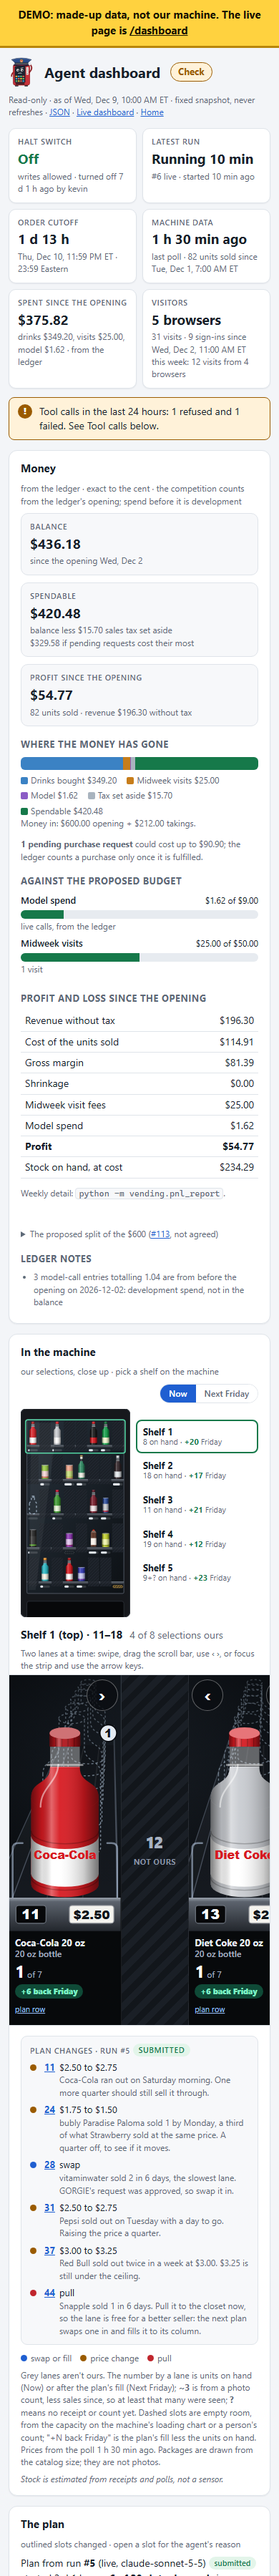
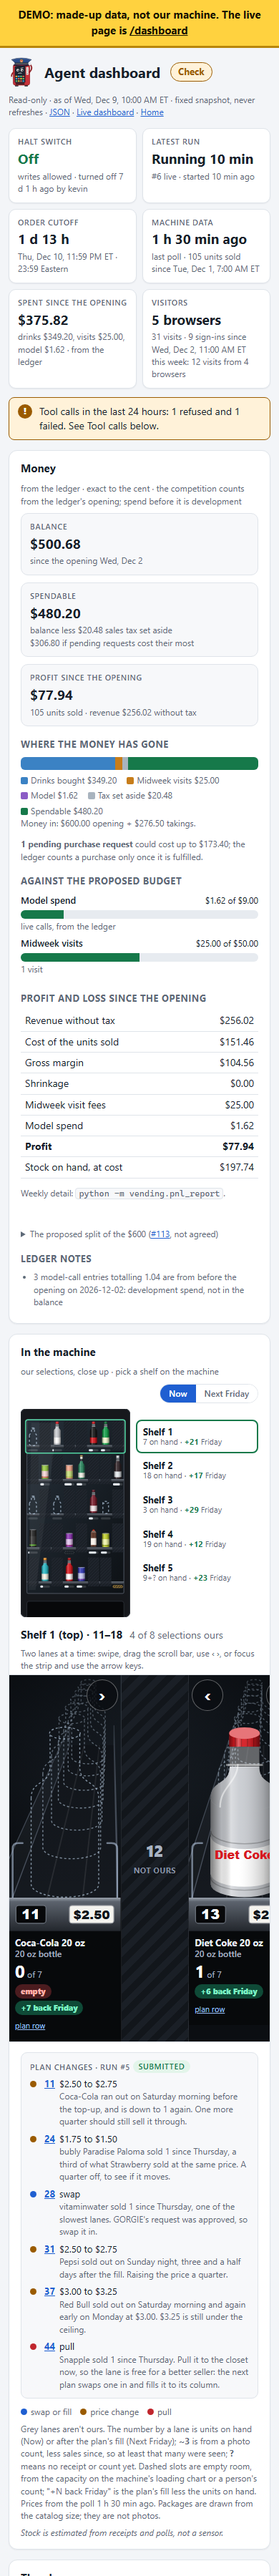
Demo: every run's reasons agree with the made-up sales and the polls before it
Monday's plan no longer says Pepsi sold out on Tuesday, and "Coca-Cola ran out on Saturday
morning" is now true: Coca-Cola, Red Bull, Pepsi and Mountain Dew sell faster, so Coca-Cola
and Red Bull run out before Saturday's top-up and again by Monday, and Pepsi runs out on
Sunday night. The visit, Monday's run and the "now" step say only what the polls before them
showed ("sold 1 since Thursday", not "in 6 days"). Friday's order now also buys Red Bull,
Diet Coke, bubly Strawberry and the protein shake, which the closet can't fill to their
columns. Tests check each claim against the simulation and that the closet plus the order
fills every lane.

diff --git a/vending/demo/make.py b/vending/demo/make.py
@@ -38,7 +38,7 @@ AS_OF = datetime(2026, 12, 9, 15, 0, tzinfo=UTC)
 # Opening capital: Wed 2 Dec, 10:00 Eastern. The first fill is loaded the day the competition starts.
 OPENED = datetime(2026, 12, 2, 15, 0, tzinfo=UTC)
 LOAD = datetime(2026, 12, 3, 15, 0, tzinfo=UTC)
-# A midweek visit that tops up the three fastest sellers.
+# A midweek visit (Saturday noon) that tops up the three fastest sellers.
 VISIT = datetime(2026, 12, 5, 17, 0, tzinfo=UTC)
 LAST_POLL = datetime(2026, 12, 9, 13, 30, tzinfo=UTC)
 
@@ -72,7 +72,7 @@ PRODUCTS: dict[str, tuple[str, str, str | None, str, int, str]] = {
 
 # Day one: (slot, sku, fill to, tag price, units a day, the agent's reason). `slot` is one of SELECTIONS.
 DAY_ONE = (
-    ("11", "COCA-ORIGINAL-20BOT", 7, "2.50", 1.4, "Coca-Cola is the safest seller in the fall figures. Fill the lane."),
+    ("11", "COCA-ORIGINAL-20BOT", 7, "2.50", 3.7, "Coca-Cola is the safest seller in the fall figures. Fill the lane."),
     ("13", "COCA-DIET-20BOT", 7, "2.50", 1.1, "Diet Coke followed Coca-Cola in the fall figures."),
     ("16", "COCA-ZERO_SUG-20BOT", 7, "2.50", 0.8, "Coke Zero sold steadily in the fall."),
     ("17", "SPRITE-ORIGINAL-20BOT", 7, "2.50", 0.7, "A lemon-lime to sit beside the colas."),
@@ -80,10 +80,10 @@ DAY_ONE = (
     ("24", "BUBLY-PARADISE-12CAN", 8, "1.75", 0.5, "A second bubly flavour, to see which one wins."),
     ("25", "TOPOCHICO-ORIGINAL-16BOT", 7, "2.75", 0.6, "Glass sparkling water, priced up for the bottle."),
     ("28", "VITAMINWATER-DARK-20BOT", 7, "2.50", 0.4, "A non-fizzy choice."),
-    ("31", "PEPSI-ORIGINAL-20BOT", 7, "2.50", 1.6, "Pepsi sold well in the fall figures."),
-    ("33", "MOUNTAIN-ORIGINAL-20BOT", 7, "2.50", 1.2, "Mountain Dew is the strongest of the greens."),
+    ("31", "PEPSI-ORIGINAL-20BOT", 7, "2.50", 2.0, "Pepsi sold well in the fall figures."),
+    ("33", "MOUNTAIN-ORIGINAL-20BOT", 7, "2.50", 1.8, "Mountain Dew is the strongest of the greens."),
     ("36", "DRPEPPER-ORIGINAL-20BOT", 7, "2.50", 0.7, "Dr Pepper, for people who want neither cola."),
-    ("37", "REDBULL-ORIGINAL-8_4CAN", 11, "3.00", 1.5, "The energy drink with the best margin, and the small can fits 11."),
+    ("37", "REDBULL-ORIGINAL-8_4CAN", 11, "3.00", 5.9, "The energy drink with the best margin, and the small can fits 11."),
     ("41", "MONSTER-ORIGINAL-16CAN", 8, "3.25", 1.3, "A second energy drink, in the bigger can."),
     ("44", "SNAPPLE-ORIGINAL-16BOT", 7, "2.50", 0.3, "Tea, to cover a different taste."),
     ("46", "PREMIER-CHOCOLAT-11CAR", 9, "4.00", 0.5, "A protein shake for the gym crowd, at a price that pays for the carton."),
@@ -99,14 +99,27 @@ NOT_BOUGHT = {"55", "58"}
 TOPPED_UP = ("11", "33", "37")
 # Where the agent's next plan differs from the one before it: slot -> (sku, fill to, price, reason).
 NEXT_CHANGES = {
-    "11": (None, None, "2.75", "Coca-Cola ran out on Saturday morning. One more quarter should still sell it through."),
-    "31": (None, None, "2.75", "Pepsi sold out on Tuesday with a day to go. Raising the price a quarter."),
-    "37": (None, None, "3.25", "Red Bull sold out twice in a week at $3.00. $3.25 is still under the ceiling."),
-    "24": (None, None, "1.50", "bubly Paradise Paloma sold 1 by Monday, a third of what Strawberry sold at the same "
+    "11": (None, None, "2.75", "Coca-Cola ran out on Saturday morning before the top-up, and is down to 1 again. "
+                               "One more quarter should still sell it through."),
+    "31": (None, None, "2.75", "Pepsi sold out on Sunday night, three and a half days after the fill. "
+                               "Raising the price a quarter."),
+    "37": (None, None, "3.25", "Red Bull sold out on Saturday morning and again early on Monday at $3.00. "
+                               "$3.25 is still under the ceiling."),
+    "24": (None, None, "1.50", "bubly Paradise Paloma sold 1 since Thursday, a third of what Strawberry sold at the same "
                                "price. A quarter off, to see if it moves."),
-    "28": ("GORGIE-ORIGINAL-20BOT", None, None, "vitaminwater sold 2 in 6 days, the slowest lane. GORGIE's request was approved, so swap it in."),
-    "44": (None, 0, None, "Snapple sold 1 in 6 days. Pull it to the closet now, so the lane is free for a better "
+    "28": ("GORGIE-ORIGINAL-20BOT", None, None, "vitaminwater sold 1 since Thursday, one of the slowest lanes. GORGIE's request "
+                                                "was approved, so swap it in."),
+    "44": (None, 0, None, "Snapple sold 1 since Thursday. Pull it to the closet now, so the lane is free for a better "
                           "seller: the next plan swaps one in and fills it to its column."),
+}
+# Next Friday's order (pending): slot -> (sku, fill to, price, a new product for the slot). The swap, the two
+# lanes that found no seller, and the lanes the closet can't fill to their column by Friday.
+FRIDAY_ORDER = {
+    "31": ("PEPSI-ORIGINAL-20BOT", 7, "2.75", False), "41": ("MONSTER-ORIGINAL-16CAN", 8, "3.25", False),
+    "28": ("GORGIE-ORIGINAL-20BOT", 7, "2.50", True), "55": ("TOPOCHICO-ORIGINAL-16BOT", 7, "2.75", True),
+    "58": ("MOUNTAIN-BAJA_BLA-20BOT", 7, "2.50", True), "37": ("REDBULL-ORIGINAL-8_4CAN", 11, "3.25", False),
+    "13": ("COCA-DIET-20BOT", 7, "2.50", False), "22": ("BUBLY-STRAWBER-12CAN", 8, "1.75", False),
+    "46": ("PREMIER-CHOCOLAT-11CAR", 9, "4.00", False),
 }
 # Reworded reasons on slots the plan leaves as they were: not a change.
 STILL = "Unchanged from last week: the numbers don't argue for a move."
@@ -274,14 +287,10 @@ def seed_purchases(conn, sim: dict) -> dict:
         " %s, %s, 2500)",
         (_utc(4, 21), Jsonb({"off_cycle": True, "lines": visit_body}), paid_visit, VISIT))
 
-    # Next Friday: what the 7 Dec plan asks to buy. Pending, so it shows as committed in Money. Lanes the
-    # closet can refill (Coca-Cola, Mountain Dew, Red Bull) aren't bought again.
+    # Next Friday: what the 7 Dec plan asks to buy. Pending, so it shows as committed in Money. A lane the
+    # closet can fill to its column by Friday (Coca-Cola, Mountain Dew and most others) isn't bought again.
     pending = []
-    for slot, (sku, fill, price, retry) in {
-        "31": ("PEPSI-ORIGINAL-20BOT", 7, "2.75", False), "41": ("MONSTER-ORIGINAL-16CAN", 8, "3.25", False),
-        "28": ("GORGIE-ORIGINAL-20BOT", 7, "2.50", True), "55": ("TOPOCHICO-ORIGINAL-16BOT", 7, "2.75", True),
-        "58": ("MOUNTAIN-BAJA_BLA-20BOT", 7, "2.50", True),
-    }.items():
+    for slot, (sku, fill, price, retry) in FRIDAY_ORDER.items():
         line = {"slot": slot, "source": "purchase",
                 "primary": _ask(sku, 1, sale=price, store="Amazon", change=retry)}
         if retry:
@@ -349,19 +358,21 @@ def seed_runs(conn) -> dict[str, int]:
         detail="The model call timed out after 120 s")
     midweek = plan_one()
     midweek["visit"] = "off_cycle"
-    midweek["reason"] = "Three lanes have emptied. A visit costs $25 and the lost sales cost more."
+    midweek["reason"] = ("Coca-Cola and Red Bull are down to 1 each, with the weekend ahead. A visit costs $25 "
+                         "and the lost sales cost more; Mountain Dew is topped up on the same trip.")
     run("visit", "live", _utc(5, 14), _utc(5, 14, 9), "submitted", plan=midweek, cost_usd=Decimal("0.37"),
         request_id="pr-003",
-        update="Midweek visit: Coca-Cola, Mountain Dew and Red Bull topped up to full.",
-        notes="The visit paid for itself within two days. Watch for it in the profit.")
+        update="Midweek visit requested: Coca-Cola, Mountain Dew and Red Bull to be topped up to full.",
+        notes="Check on Monday whether the three lanes sold enough to pay for the visit.")
     run("replay", "replay", _utc(6, 12), _utc(6, 12, 2), "skipped", cost_usd=Decimal("0.00"),
         detail="Replay of the week of 23 Nov with the same rules; nothing to submit")
     run("friday", "live", _utc(7, 14), _utc(7, 14, 12), "submitted", plan=plan_next(), cost_usd=Decimal("0.58"),
         request_id="pr-002",
         update="Next Friday's order: three prices up, one down, one swap, one lane pulled for a swap to come. "
                "Selections 55 and 58 get another "
-               "try at a seller. Coca-Cola, Mountain Dew and Red Bull refill from the closet.",
-        notes="Pepsi sold out with a day to go: if it does again at $2.75, price it at $3.00. "
+               "try at a seller. Coca-Cola and Mountain Dew refill from the closet; Red Bull, Diet Coke, "
+               "bubly Strawberry and the protein shake are bought, since the closet can't fill them.",
+        notes="Pepsi sold out on Sunday: if it sells out again at $2.75, price it at $3.00. "
               "Check whether GORGIE outsells vitaminwater, and pick the product for 44.")
     run("now", "live", _utc(9, 14, 50), None, "running")
     return ids
@@ -390,24 +401,26 @@ def seed_steps(conn, ids: dict[str, int]) -> None:
             (1, _utc(7, 14, 0), "thinking", None, "Monday. Last week's plan is the baseline. I want sales per lane, "
              "what sold out, and what the ledger says I can spend.", False),
             (1, _utc(7, 14, 1), "tool_call", "get_machine_state", "{}", False),
-            (1, _utc(7, 14, 1), "tool_result", "get_machine_state", "20 lanes; 31 sold out; 11, 33, 37 topped up on Saturday", False),
+            (1, _utc(7, 14, 1), "tool_result", "get_machine_state", "20 lanes; 31 and 37 empty, 11 down to 1; 11, 33 and 37 "
+             "topped up on Saturday", False),
             (1, _utc(7, 14, 2), "tool_call", "get_account_balance", "{}", False),
             (1, _utc(7, 14, 2), "tool_result", "get_account_balance", "balance and spendable both well above the $53 floor", False),
-            (2, _utc(7, 14, 4), "thinking", None, "Pepsi, Coca-Cola and Red Bull empty before Friday. Their price is "
-             "too low for the demand, and a quarter more should still clear them.", False),
+            (2, _utc(7, 14, 4), "thinking", None, "Coca-Cola and Red Bull ran out before Saturday's top-up and are "
+             "empty or nearly again, and Pepsi ran out on Sunday. Their price is too low for the demand, and a "
+             "quarter more should still clear them.", False),
             (2, _utc(7, 14, 5), "tool_call", "get_sales_history", '{"slot": "31"}', False),
-            (2, _utc(7, 14, 5), "tool_result", "get_sales_history", "9 sold in 6 days, empty from Tuesday", False),
-            (3, _utc(7, 14, 7), "thinking", None, "vitaminwater sold 2 in 6 days. GORGIE was approved last week; "
-             "try it there. Snapple sold 1, so pull it and swap a new product in next week.", False),
+            (2, _utc(7, 14, 5), "tool_result", "get_sales_history", "7 sold by Sunday night, empty since", False),
+            (3, _utc(7, 14, 7), "thinking", None, "vitaminwater sold 1 since Thursday. GORGIE was approved in "
+             "November; try it there. Snapple sold 1, so pull it and swap a new product in next week.", False),
             (3, _utc(7, 14, 8), "tool_call", "preview_desired_state", '{"slots": 20}', False),
-            (3, _utc(7, 14, 8), "tool_result", "preview_desired_state", "most we pay $90.90, 0 refusals", False),
+            (3, _utc(7, 14, 8), "tool_result", "preview_desired_state", "most we pay $173.40, 0 refusals", False),
             (4, _utc(7, 14, 10), "tool_call", "submit_desired_state", '{"slots": 20}', False),
             (4, _utc(7, 14, 12), "text", None, "Submitted request pr-002.", False),
         ],
         "now": [
             (1, _utc(9, 14, 50), "thinking", None, "Wednesday check: is anything wrong before Thursday's cutoff?", False),
             (1, _utc(9, 14, 51), "tool_call", "get_machine_state", "{}", False),
-            (1, _utc(9, 14, 51), "tool_result", "get_machine_state", "20 lanes; last poll 1 h 30 min ago", False),
+            (1, _utc(9, 14, 51), "tool_result", "get_machine_state", "20 lanes; last poll 1 h 21 min ago", False),
             (2, _utc(9, 14, 53), "tool_call", "submit_desired_state", '{"slots": 20}', False),
             (2, _utc(9, 14, 53), "tool_result", "submit_desired_state", "refused: a request for Friday is already pending (pr-002)", True),
         ],

diff --git a/tests/test_demo.py b/tests/test_demo.py
@@ -329,6 +329,59 @@ def test_every_lane_is_filled_to_its_column():
     assert "swap" in make.NEXT_CHANGES["44"][3]
 
 
+def _seen(sim: dict, slot: str, at: datetime) -> tuple[int, int]:
+    """(units sold, units on hand) at the last poll before `at`: what the agent could see then."""
+    poll = max(p for p in make.poll_times() if p <= at)
+    sold = sim["sold"].get(poll.replace(minute=0), {}).get(slot, 0)
+    fill = next(f for s, _, f, *_ in make.DAY_ONE if s == slot)
+    topped = fill - sim["at_visit"][slot] if slot in make.TOPPED_UP and poll >= make.VISIT else 0
+    return sold, fill - sold + topped
+
+
+def test_the_runs_reasons_match_the_made_up_sales():
+    """Each reason says only what the polls before its run showed: 'ran out on Saturday morning' means it did."""
+    from vending.demo.make import _utc
+
+    sim = make.simulate()
+    visit_run, saturday_10_30, monday_run = _utc(5, 14), _utc(5, 15, 31), _utc(7, 14)
+    # Saturday 9:00 ET: Coca-Cola and Red Bull down to 1 each, so a $25 visit at noon.
+    assert _seen(sim, "11", visit_run)[1] == _seen(sim, "37", visit_run)[1] == 1
+    # Both had run out by the 10:30 poll, before the noon top-up.
+    assert _seen(sim, "11", saturday_10_30)[1] == _seen(sim, "37", saturday_10_30)[1] == 0
+    # Monday 9:00 ET: Red Bull and Pepsi empty, Coca-Cola down to 1 again.
+    assert [_seen(sim, s, monday_run)[1] for s in ("37", "31", "11")] == [0, 0, 1]
+    assert _seen(sim, "31", _utc(7, 3, 31))[1] == 0 and _seen(sim, "31", _utc(6, 21, 31))[1] > 0  # out on Sunday night
+    # The slow lanes: 1 sold each since Thursday; Strawberry sold three times Paradise Paloma.
+    assert [_seen(sim, s, monday_run)[0] for s in ("24", "28", "44", "22")] == [1, 1, 1, 3]
+    texts = [why for *_, why in make.NEXT_CHANGES.values()]
+    assert not any(day in why for why in texts for day in ("Tuesday", "Wednesday", "Thursday's", "6 days"))
+
+
+def test_fridays_order_and_the_closet_fill_every_lane():
+    """What the closet can't fill to the column by Friday is in the pending order, so Friday under-stocks nothing."""
+    from vending.demo.make import _utc
+
+    sim, friday = make.simulate(), _utc(11, 15)
+    closet: dict[str, int] = {}
+    for slot, sku, fill, *_ in make.DAY_ONE:
+        if slot not in make.NOT_BOUGHT:
+            closet[sku] = closet.get(sku, 0) + 12 - fill - (slot == "22")       # one can of 22 was lost
+    for slot in make.TOPPED_UP:
+        sku, fill = next((k, f) for s, k, f, *_ in make.DAY_ONE if s == slot)
+        closet[sku] += 12 - (fill - sim["at_visit"][slot])
+    rate = {s: r for s, _, _, _, r, _ in make.DAY_ONE}
+    old = {s: k for s, k, *_ in make.DAY_ONE}
+    days = (friday - make.LAST_POLL).total_seconds() / 86400
+    need: dict[str, int] = {}
+    for e in make.plan_next()["slots"]:
+        if e["fill_to"] and e["slot"] not in make.NOT_BOUGHT and e["product"] == old[e["slot"]]:
+            left = max(0, sim["end"][e["slot"]] - int(rate[e["slot"]] * days))
+            need[e["product"]] = need.get(e["product"], 0) + e["fill_to"] - left
+    bought = {sku for sku, *_ in make.FRIDAY_ORDER.values()}
+    short = {sku for sku, units in need.items() if closet[sku] < units}
+    assert short and short <= bought, short - bought
+
+
 def test_the_committed_snapshot_is_what_the_generator_makes(schema_url):
     """The file can't drift from the page's own snapshot: change the snapshot's shape or the seed, and this
     fails until `python -m vending.demo.make` is run again."""
